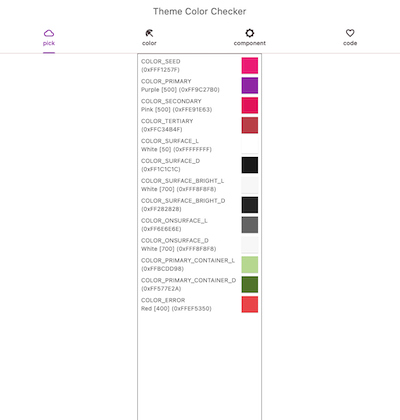
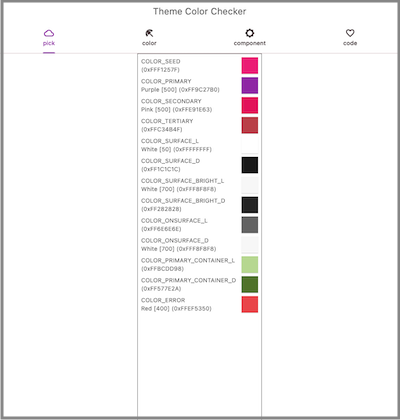
add border to img

Changed region(s): [[0.0, 0.0, 1.0, 1.0]]

diff --git a/README.md b/README.md
@@ -24,4 +24,4 @@ Pickup colors, check how they look in widgets, and get code.
 * Add some more components
 * Add more Color elements in ColorScheme
   
-**Pull requests are very welcome!!!**  
+**Pull requests are very welcome ^^**  
